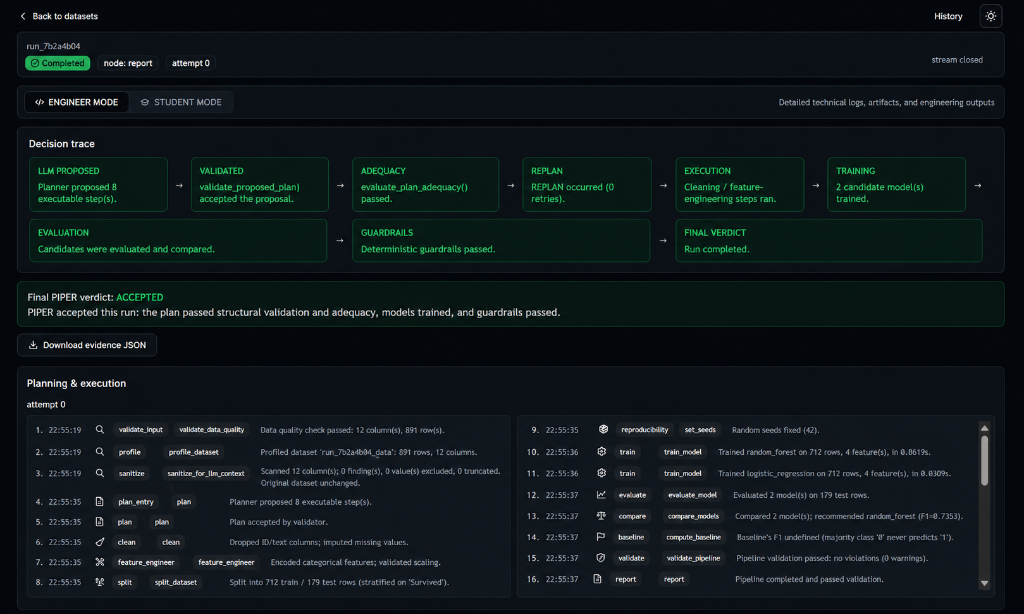
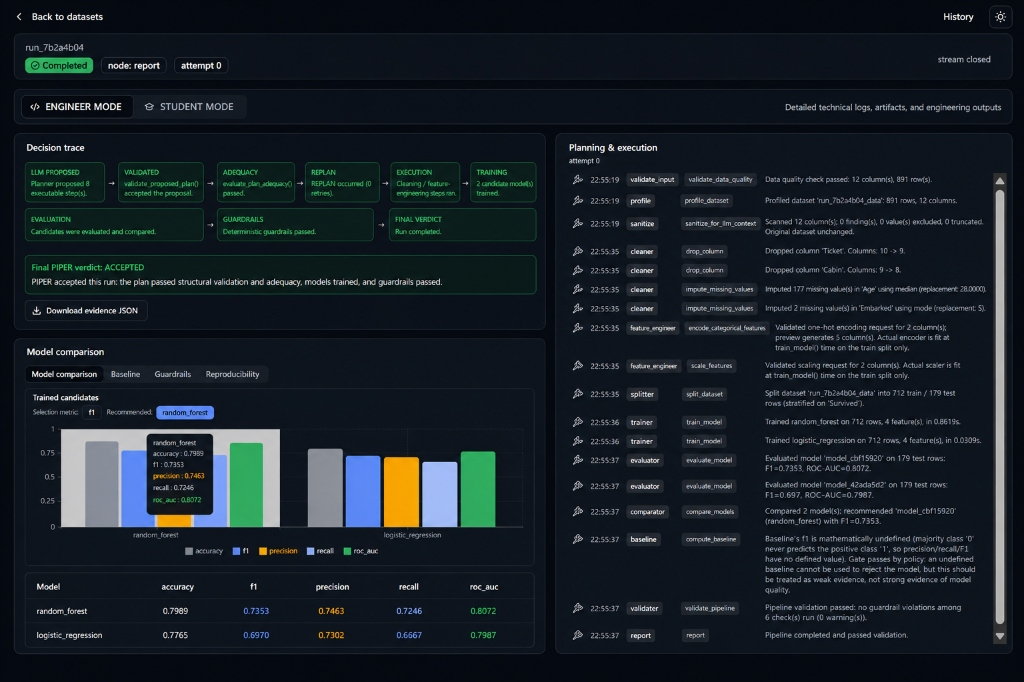
docs: streamline PIPER README screenshots

diff --git a/docs/screenshots.md b/docs/screenshots.md
@@ -1,0 +1,75 @@
+# PIPER — Complete Screenshot Gallery
+
+This gallery documents the end-to-end visual workflow of the PIPER deterministic ML compiler across all execution, verification, and educational views.
+
+---
+
+## 1. Dataset Ingestion & Configuration
+
+### Dataset Upload & Provider Configuration
+Upload multi-format tabular datasets (CSV, TSV, Parquet, Excel, JSON) and configure planner providers (Google Gemini, OpenAI, or local Ollama) with instant dataset profiling.
+
+![Dataset Upload & Configuration](screenshots/dataset-upload.png)
+
+---
+
+## 2. ML Education & Guided Walkthrough
+
+### Student Mode — 14-Stage ML Learning Journey
+A pedagogical walkthrough explaining every decision made during the run, including data profiling, imputation rationale, model architecture trade-offs, and controlled What-If sandboxes.
+
+![Student Mode — 14-Stage ML Learning Journey](screenshots/student-mode.png)
+
+### End-to-End Pipeline Visualization
+Interactive visual pipeline flowchart tracing data from input ingestion through preprocessing, train/test partition, candidate training, evaluation, validation, and artifact deployment.
+
+![End-to-End Pipeline Visualization](screenshots/pipeline-visualization.png)
+
+---
+
+## 3. Engineering & Decision Intelligence
+
+### Decision Trace & Model Comparison
+Full deterministic audit graph from proposal to final verdict, candidate model comparison bar charts, and step-by-step execution logs.
+
+![Decision Trace & Model Comparison](screenshots/decision-trace.png)
+
+### Dedicated Model Comparison
+Side-by-side performance breakdown comparing Accuracy, Precision, Recall, F1, and ROC-AUC metrics against the deterministic selection gate.
+
+![Model Comparison](screenshots/model-comparison.png)
+
+---
+
+## 4. Verification & Guardrails
+
+### Baseline Gate
+Evaluates candidate models against a zero-intelligence majority-class baseline to guarantee genuine predictive signal.
+
+![Baseline Gate](screenshots/baseline-gate.png)
+
+### Deterministic Safety Guardrails
+Automated checks for data leakage, class imbalance, constant features, high cardinality, and suspicious evaluation metrics.
+
+![Deterministic Safety Guardrails](screenshots/guardrails.png)
+
+### Reproducibility Verification
+Verifies bitwise reproducible execution with environment fingerprints, fixed seeds, and cross-run metric parity.
+
+![Reproducibility Verification](screenshots/reproducibility.png)
+
+---
+
+## 5. Artifacts & Deployment
+
+### Verified ML Artifact Bundle
+Cryptographically verified bundle (\pipeline.joblib\, \pipeline.py\, \	raining_reproduction.ipynb\, \manifest.json\, \evidence.json\, \
+equirements.txt\, \hashes.json\) passing strict \
+p.array_equal\ parity gates.
+
+![Verified ML Artifacts](screenshots/verified-artifacts.png)
+
+### Test Flight (Unseen Data Inference)
+Score new, unseen CSV or JSON records against the verified artifact in standalone mode without retraining.
+
+![Test Flight Inference](screenshots/test-flight.png)

diff --git a/README.md b/README.md
@@ -55,35 +55,25 @@ flowchart TD
 
 ## Screenshots
 
-### 1. Dataset Upload / Configuration
-![Dataset Upload / Configuration](docs/screenshots/dataset-upload.png)
+### 1. Dataset Upload & Configuration
+![Dataset Upload & Configuration](docs/screenshots/dataset-upload.png)
 
-### 2. Student Mode — ML Learning Journey
-![Student Mode — ML Learning Journey](docs/screenshots/student-mode.png)
+### 2. Student Mode — 14-Stage ML Learning Journey
+![Student Mode — 14-Stage ML Learning Journey](docs/screenshots/student-mode.png)
 
 ### 3. End-to-End Pipeline Visualization
 ![End-to-End Pipeline Visualization](docs/screenshots/pipeline-visualization.png)
 
-### 4. Model Comparison
-![Model Comparison](docs/screenshots/model-comparison.png)
+### 4. Model Comparison & Decision Trace
+![Model Comparison & Decision Trace](docs/screenshots/decision-trace.png)
 
-### 5. Decision Trace / Planning & Execution
-![Decision Trace / Planning & Execution](docs/screenshots/decision-trace.png)
+### 5. Deterministic Guardrails & Reproducibility
+![Deterministic Guardrails & Reproducibility](docs/screenshots/reproducibility.png)
 
-### 6. Baseline Gate
-![Baseline Gate](docs/screenshots/baseline-gate.png)
+### 6. Verified Artifacts & Test Flight Inference
+![Verified Artifacts & Test Flight Inference](docs/screenshots/test-flight.png)
 
-### 7. Deterministic Guardrails
-![Deterministic Guardrails](docs/screenshots/guardrails.png)
-
-### 8. Reproducibility
-![Reproducibility](docs/screenshots/reproducibility.png)
-
-### 9. Verified Artifacts
-![Verified Artifacts](docs/screenshots/verified-artifacts.png)
-
-### 10. Test Flight / Inference
-![Test Flight / Inference](docs/screenshots/test-flight.png)
+> 📸 **Explore more:** [View the complete screenshot gallery with all sub-panels & inspection views →](docs/screenshots.md)
 
 ---
 
